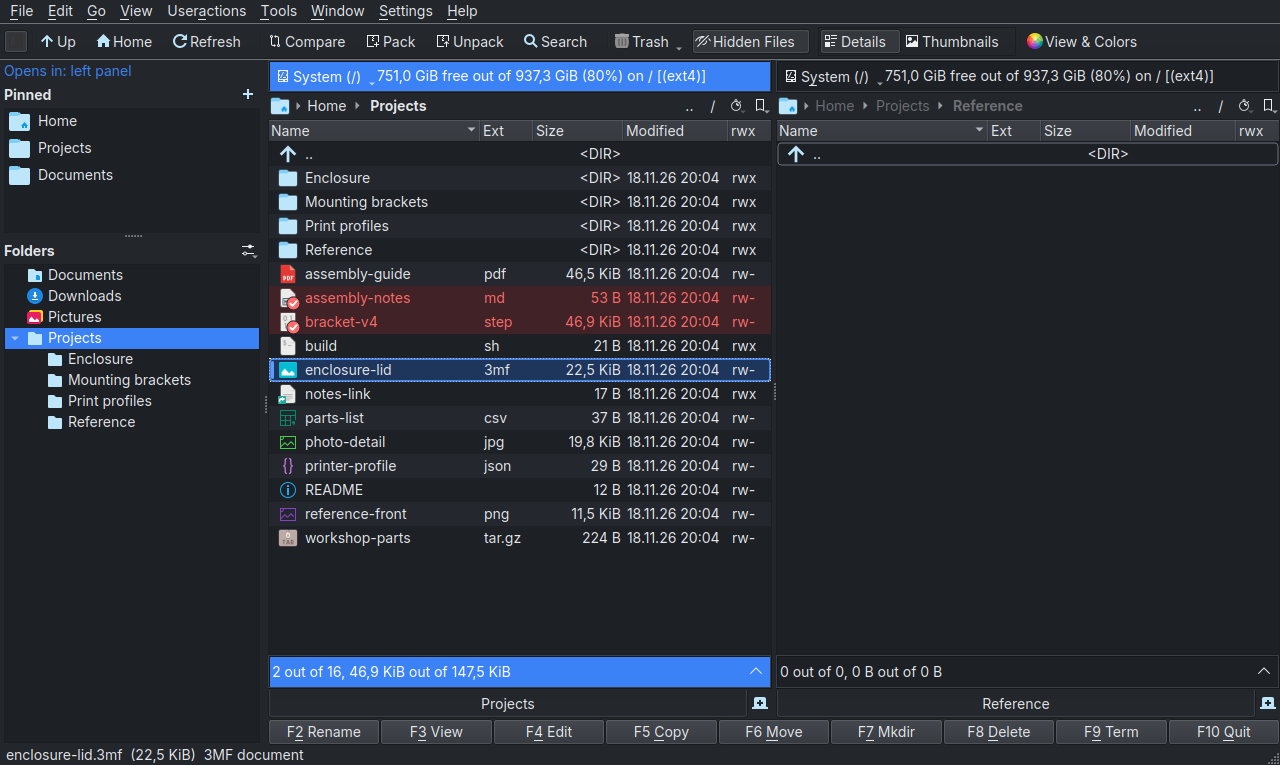
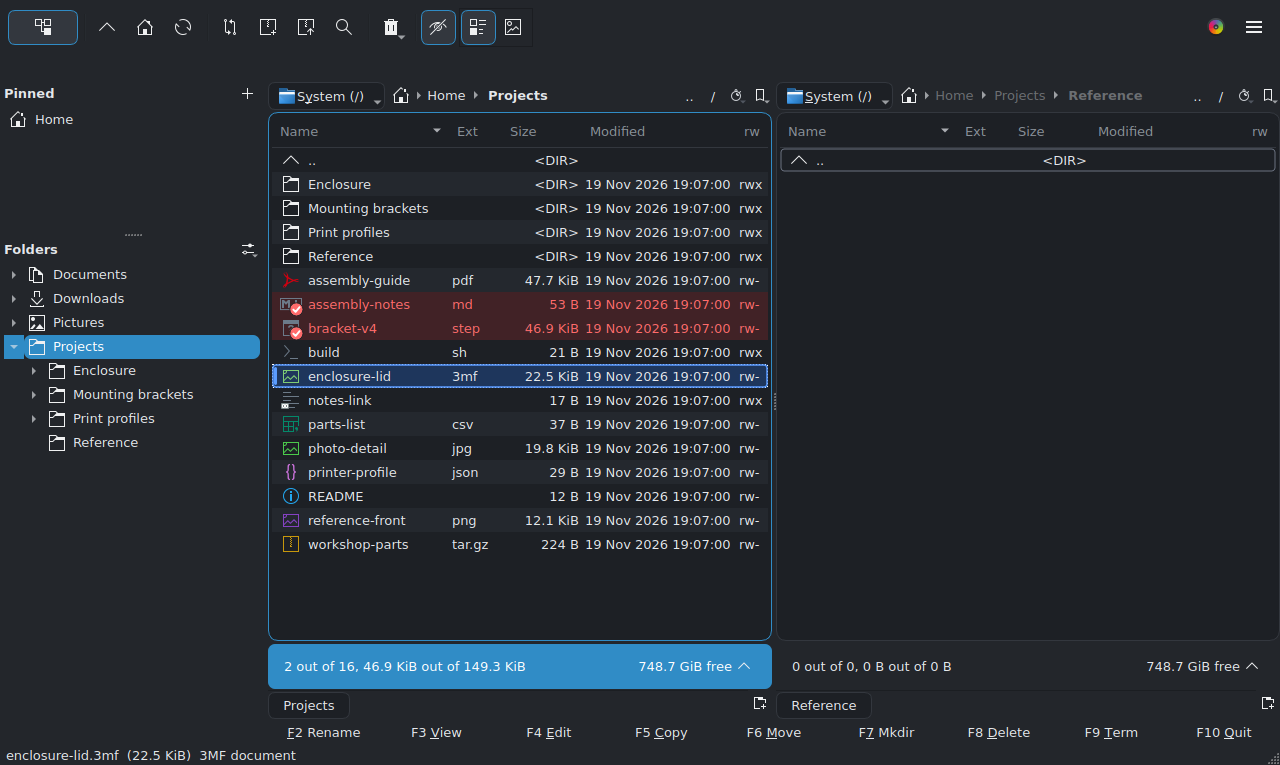
Preview 3 screenshots and test report

Changed region(s): [[0.0, 0.0, 1.0, 0.7216], [0.0, 0.8418, 1.0, 1.0], [0.9375, 0.0301, 1.0, 0.0601]]

diff --git a/dev/TEST-REPORT.md b/dev/TEST-REPORT.md
@@ -61,8 +61,25 @@ are in `dev/TEST-REPORT-packaging.md`.
 - Downloaded .deb in fresh ubuntu:24.04 containers: install scenario 57/57 pass,
   coexistence with the distro krusader package 13/13 pass.
 
+## Preview 3 (2026-11-19, before release)
+
+- ctest 5/5 (new: paneropathstest; accent colour case in panerothemetest).
+- GUI file-ops test 17/17 under Xvfb with the new toolbar (Trash menu moved).
+- Interactive checks in the staged build under Xvfb: Space on a folder shows its
+  size and marks it; tree click unfolds, second click folds; tree stays rooted at
+  Home in ~/Documents/Invoices; pins highlight only for the exact folder; Ctrl+wheel
+  Details -> Thumbnails 48 -> 64 -> 48 -> Details with the toggle following; menu
+  button lists all menus; View & Colors shows the accent and selection options;
+  "Use Panero's look" off removes the style sheet; preview 1 local toolbar file
+  with a custom shortcut is migrated (backup, new toolbar, shortcut kept).
+- Container build (dpkg-buildpackage, ctest 4/4 in the build, lintian: only the
+  documented overrides) and package tests: install, coexist, upgrade from
+  preview 2, remove/purge — 85 pass, 0 fail.
+- Host: the owner's preview 2 install showed the stale-toolbar problem that the
+  migration fixes; preview 3 host install not yet confirmed.
+
 ## Not yet verified (open)
 
-- .deb installed through the desktop on the owner's Zorin host (launcher, icon, coexistence with the installed Krusader): needs the owner's sudo; planned right after the release.
+- Preview 3 installed on the owner's Zorin host (owner installed preview 2; launcher and About worked, toolbar issue fixed in preview 3).
 - Unmounted/removable drive behaviour of pins and the drive selector (no removable media attached on the build host).
 - Native X11 (Xorg) session: only XWayland and Xvfb are covered (owner decision Q7).
